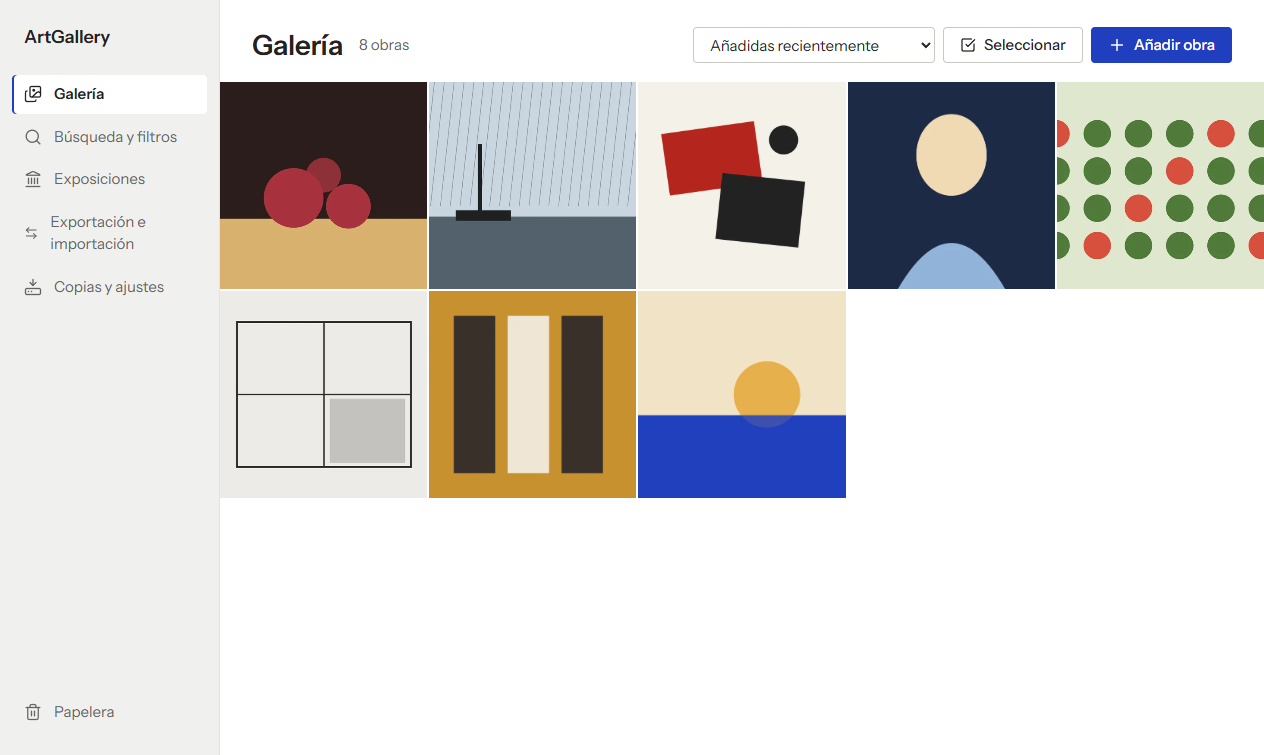
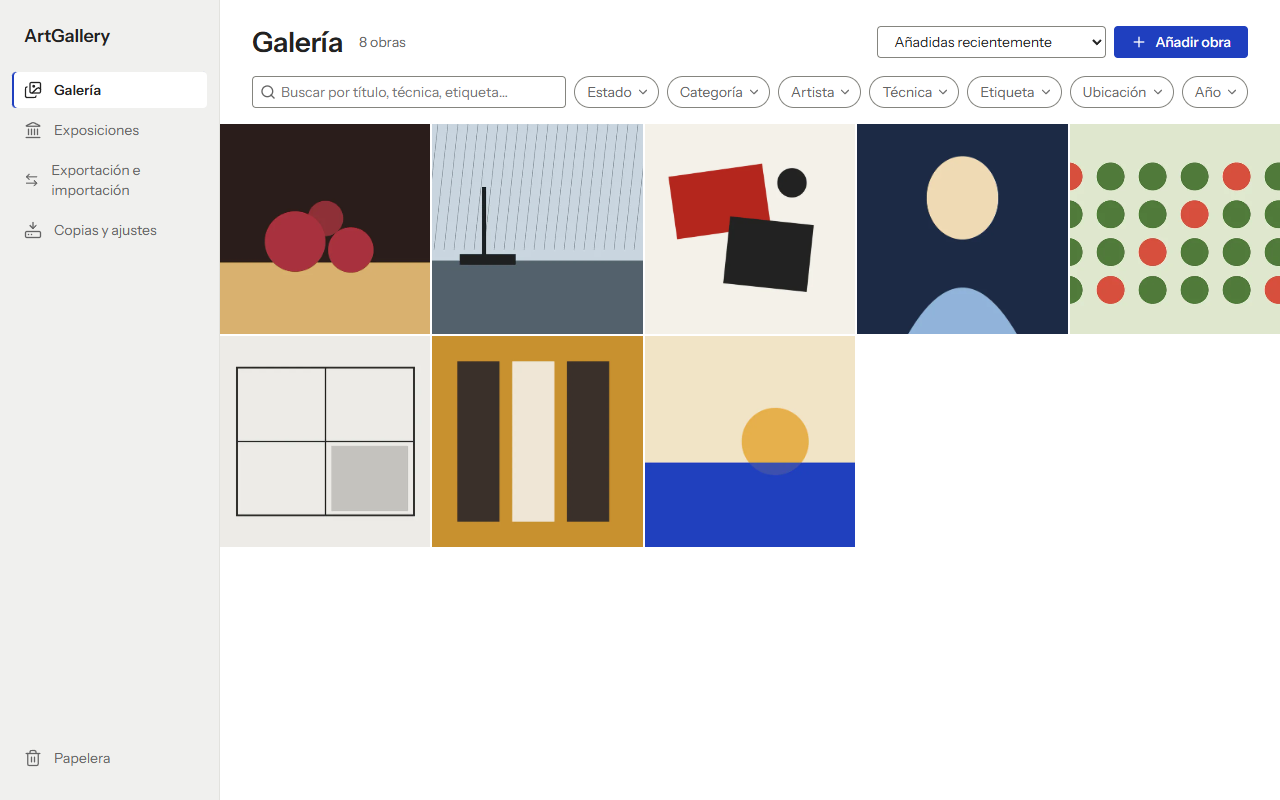
[Documentation] README and screenshots for the redesign

diff --git a/README.md b/README.md
@@ -10,9 +10,9 @@ Inventario personal de cuadros, pinturas y dibujos para Windows y macOS. Funcion
 
 Quien pinta o colecciona suele llevar sus obras repartidas entre carpetas de fotos, hojas de cálculo y notas. ArtGallery reúne en un solo lugar la ficha de cada obra con sus imágenes, dónde está y en qué estado se encuentra (disponible, expuesta, prestada, vendida). También prepara lo que hace falta para una exposición: la selección ordenada de obras, el catálogo en PDF y las cartelas para imprimir. Incluye copias de seguridad que se pueden recuperar tras reinstalar o cambiar de equipo.
 
-| Ficha de la obra                             | Búsqueda y filtros                                   |
+| Ficha de la obra                             | Búsqueda y filtros en la Galería                     |
 | -------------------------------------------- | ---------------------------------------------------- |
-| ![Ficha de una obra](screenshots/record.png) | ![Búsqueda combinada](screenshots/search.png)        |
+| ![Ficha de una obra](screenshots/record.png) | ![Búsqueda con filtros](screenshots/search.png)      |
 | **Exposición**                               | **Cartelas**                                         |
 | ![Exposición](screenshots/exhibition.png)    | ![Cartelas con vista previa](screenshots/labels.png) |
 
@@ -22,7 +22,9 @@ Las capturas son de la aplicación real con los [datos de demostración](#datos-
 
 **Inventario**
 
-- Alta rápida que solo pide el título; artista e imágenes son opcionales. Las fotografías se copian al almacenamiento de ArtGallery, así que la obra sigue funcionando aunque se mueva o borre el archivo original.
+- Alta directa: arrastra una imagen a la ventana o pulsa «Añadir obra». La ficha se abre en edición con la foto como principal, el nombre del archivo como título y el artista predeterminado de los ajustes. Si añades varias imágenes a la vez, se crea una obra por imagen.
+- Las fotografías se copian al almacenamiento de ArtGallery, así que la obra sigue funcionando aunque se mueva o borre el archivo original.
+- Los campos de texto sugieren los valores ya usados en el inventario, e Intro toma el que más se parece a lo escrito.
 - Ficha con estilo de cartela de museo y edición de todos los campos:
   - artista, categoría, técnica y soporte;
   - año (exacto o aproximado);
@@ -30,19 +32,19 @@ Las capturas son de la aplicación real con los [datos de demostración](#datos-
   - descripción, notas y etiquetas;
   - ubicación y estado;
   - precio con moneda.
-- Varias imágenes por obra: se pueden añadir más, elegir la principal y quitar imágenes.
+- Varias imágenes por obra: se pueden añadir más, también arrastrándolas a la ficha abierta, elegir la principal y quitar imágenes.
 - Papelera recuperable, con «Deshacer» al momento y borrado definitivo con confirmación.
 
 **Galería y búsqueda**
 
 - Cuadrícula de miniaturas al estilo de la galería de un móvil, ordenable por fecha de incorporación, título o año. El orden por título no distingue tildes ni mayúsculas.
-- Selección múltiple con acciones en bloque:
+- Selección múltiple: mantén pulsada una obra (o Mayús+Intro) y marca las demás con un clic. Acciones en bloque:
   - cambiar el estado;
   - añadir a una exposición;
   - exportar;
   - imprimir cartelas;
   - mover a la papelera.
-- Búsqueda de texto en todos los campos, combinable con filtros de estado, categoría, artista, técnica, etiqueta, ubicación y rango de años.
+- Búsqueda en la propia Galería, mientras escribes y en todos los campos, combinable con desplegables de estado, categoría, artista, técnica, etiqueta, ubicación y rango de años. Cada valor elegido aparece como una burbuja que se quita con su x.
 
 **Exposiciones**
 
@@ -100,7 +102,7 @@ Versión `0.1.0`, en desarrollo y todavía sin publicar como release.
 
 Se descartó **Tauri**: genera binarios más pequeños, pero exige mantener una segunda base de código en Rust y su generación de PDF depende del WebView de cada sistema.
 
-**Identidad visual: «cubo blanco».**
+**Identidad visual: «cubo blanco».** Los valores están en `src/renderer/src/styles/tokens.css`, con primitivos y tokens semánticos; la escala de texto y el espaciado siguen Fluent 2.
 
 - La interfaz es neutra para que el color lo pongan las obras, con un único acento azul Klein (`#1F3FBF`).
 - Usa Instrument Sans para la interfaz y los títulos de obra en Instrument Serif cursiva, como en las cartelas de museo.
